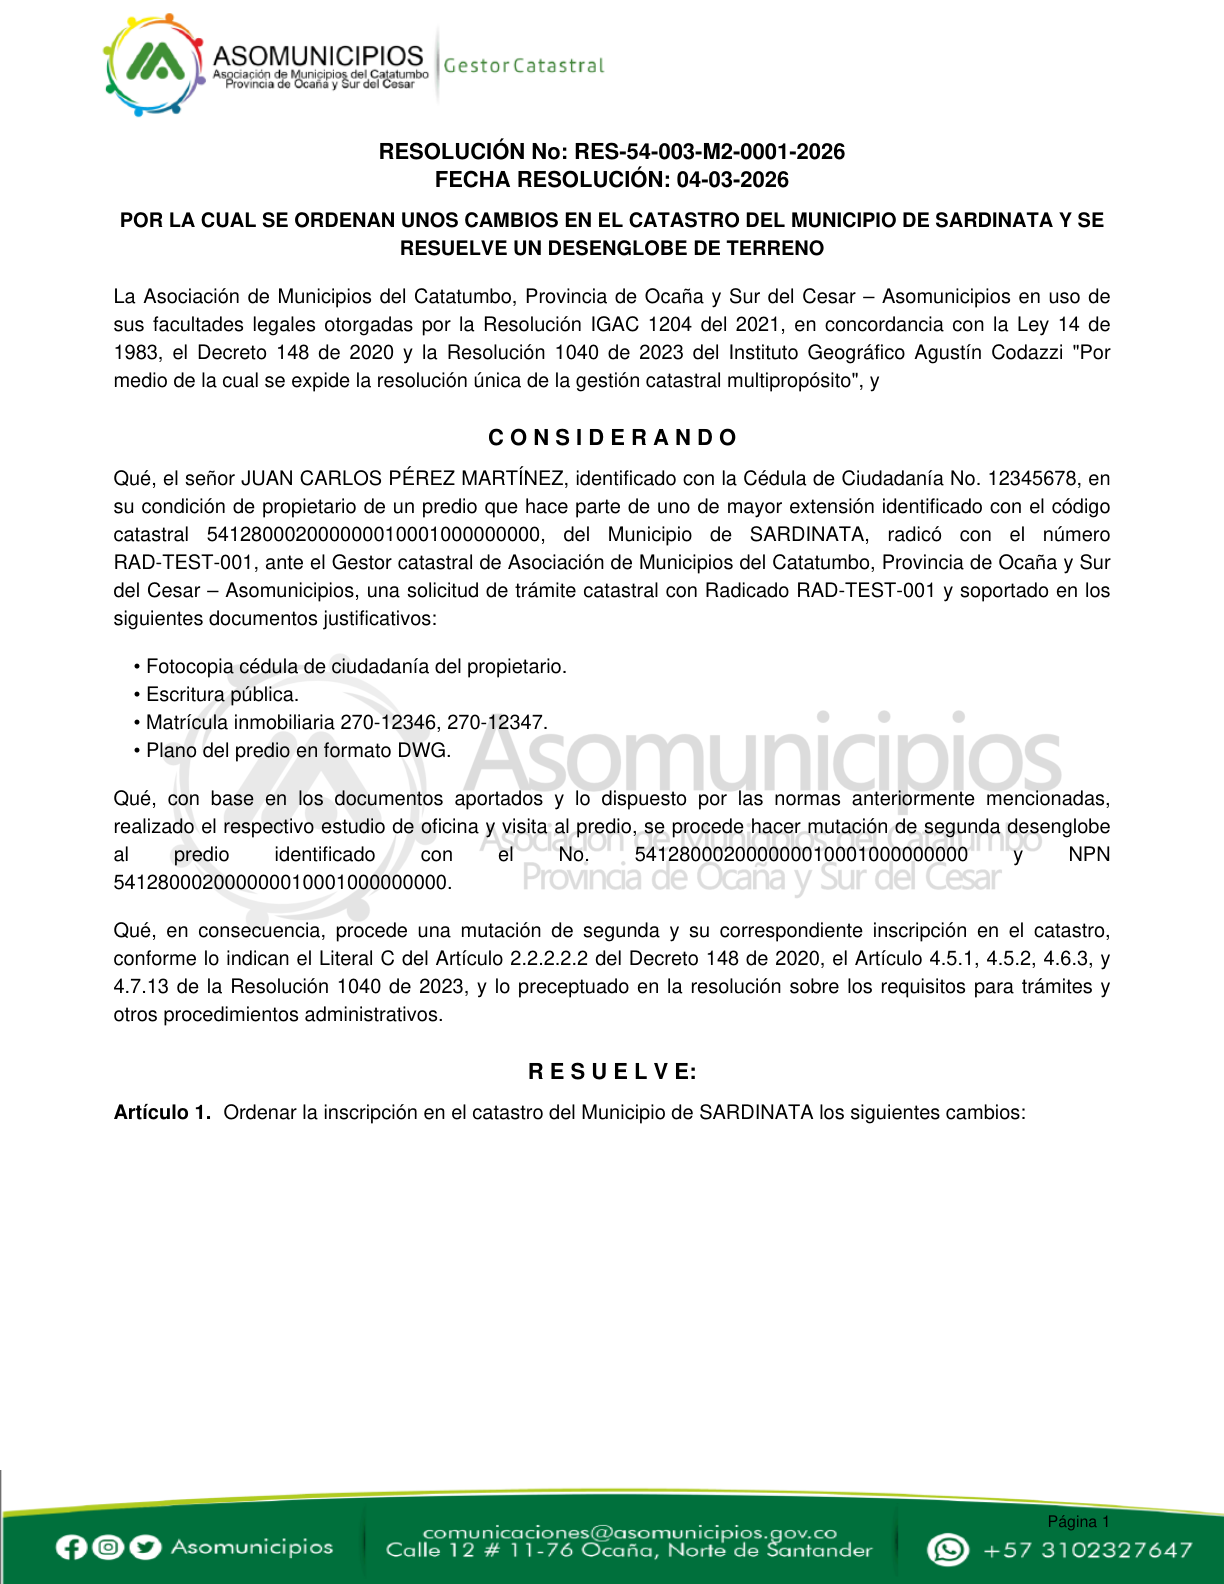
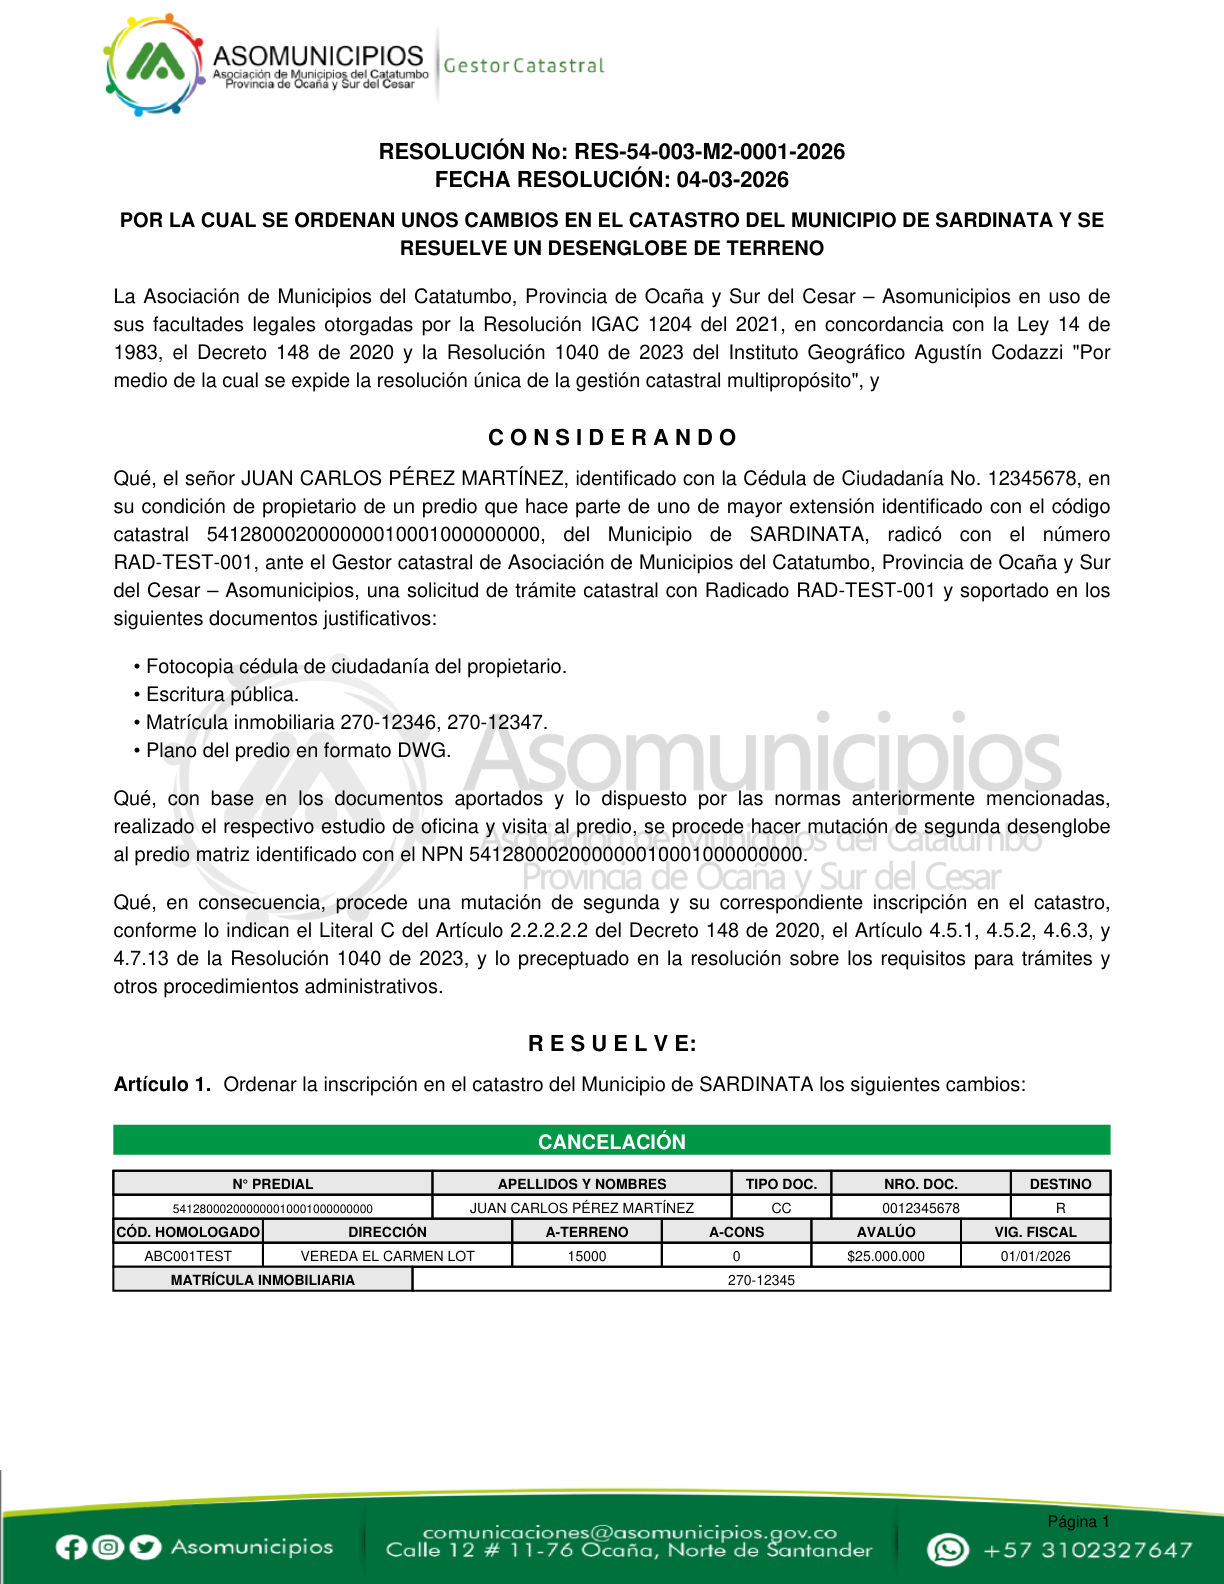
auto-commit for d3dd430b-f02f-4784-a8a4-28889d578721

Changed region(s): [[0.0931, 0.5259, 0.9314, 0.8352]]

diff --git a/backend/resolucion_m2_pdf_generator.py b/backend/resolucion_m2_pdf_generator.py
@@ -62,8 +62,7 @@ def get_m2_plantilla():
         "considerando_estudio_desengloble": (
             "Qué, con base en los documentos aportados y lo dispuesto por las normas anteriormente "
             "mencionadas, realizado el respectivo estudio de oficina y visita al predio, se procede hacer "
-            "mutación de segunda desenglobe al predio identificado con el No. {codigo_origen} y "
-            "NPN {npn_origen}."
+            "mutación de segunda desenglobe al predio matriz identificado con el NPN {npn_origen}."
         ),
         "considerando_estudio_englobe": (
             "Qué, con base en los documentos aportados y lo dispuesto por las normas anteriormente "
